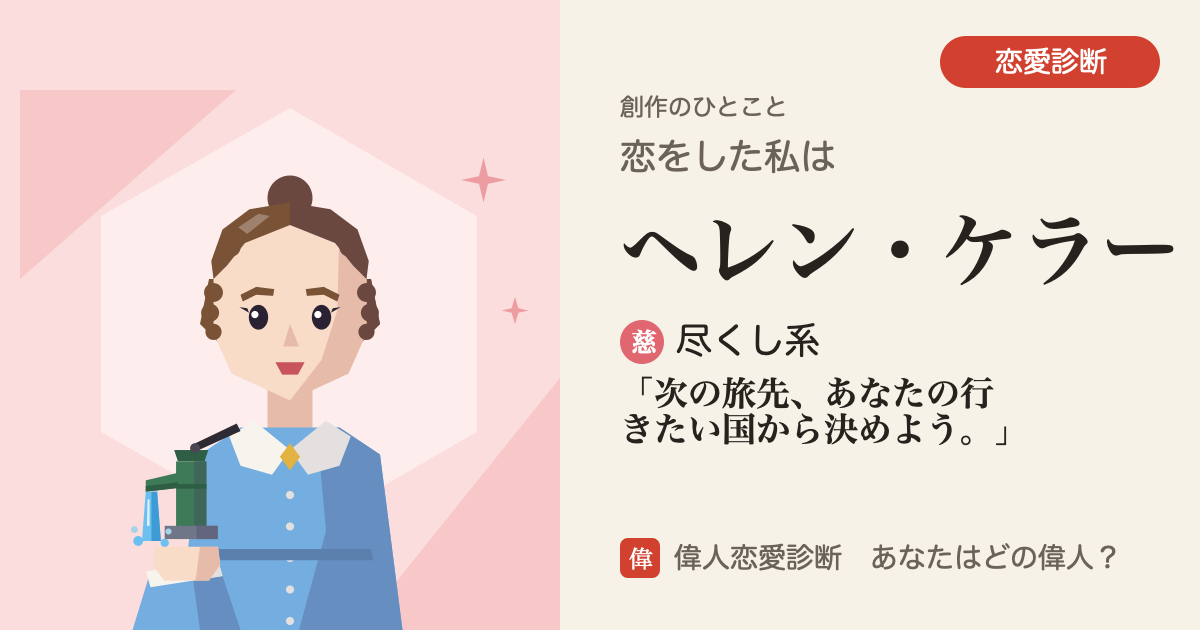
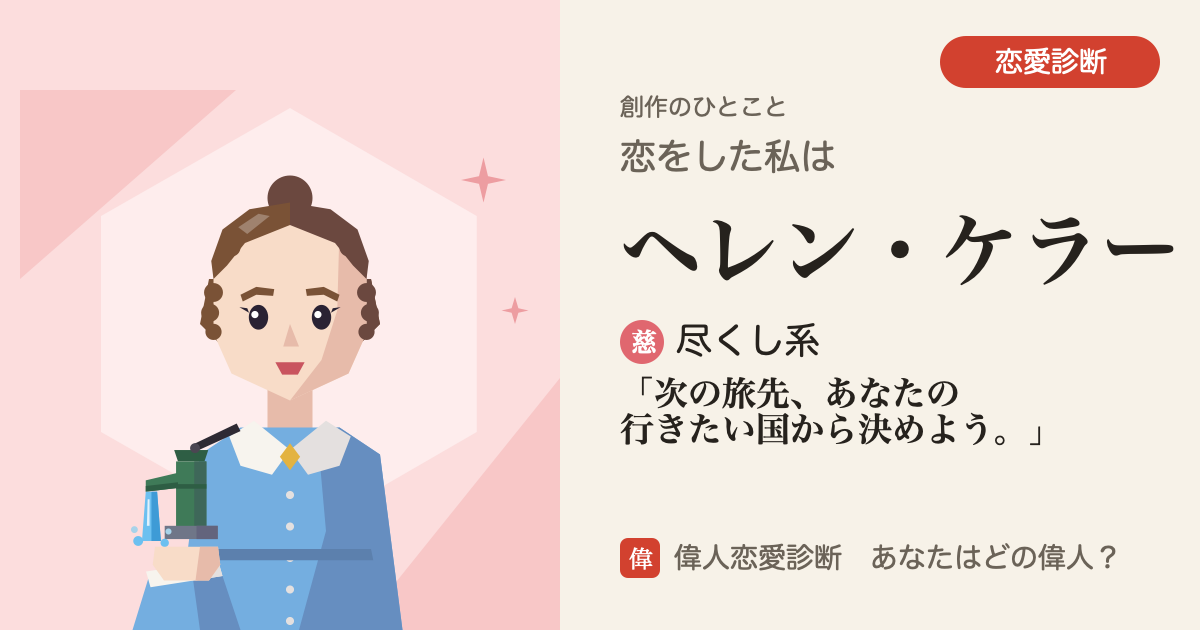
公開 版 0a1c830-202610282124

Changed region(s): [[0.4933, 0.6032, 0.8325, 0.7238]]

diff --git a/app/main.js b/app/main.js
@@ -1,28 +1,28 @@
 // 画面：トップ（#/）→ 質問（#/q/<mode>）→ 結果（#/r/<mode>/<回答>）／ 図鑑（#/zukan）
 // 結果のURLには回答（1〜5の数字の列）が入るので、そのままシェアできる。
 // 設計の根拠：docs/ui-redesign.md（デザイナー）、docs/game-design-review.md の P0（ゲーム開発者）
-import { AXES, Shindan, loadData } from "./shindan.js?v=3ec839d-202610282117";
-import { mountMotion } from "./motion.js?v=3ec839d-202610282117";
-import { mountGuide } from "./guide.js?v=3ec839d-202610282117";
+import { AXES, Shindan, loadData } from "./shindan.js?v=0a1c830-202610282124";
+import { mountMotion } from "./motion.js?v=0a1c830-202610282124";
+import { mountGuide } from "./guide.js?v=0a1c830-202610282124";
 import { SELF_KEY, LEGACY_SELF_KEYS, blankSelfState, readSelfState, initializeSelfState, armSelfClear,
-  writeSelfState, rebaselineLegacySelfState, nextDiagnosisState, nextRestoredState, nextZukanSettledState } from "./self_state.js?v=3ec839d-202610282117";
-import { createInviteToken, validInviteToken, validFriendCode, makeFriendCode, friendAnswersFromCode, makeInviteUrl, makeReplyUrl, parseSocialHash, otherPilotAllowed } from "./social.js?v=3ec839d-202610282117";
-import { orderOtherV1Questions, otherV1ProgressIndex } from "./other_v1.js?v=3ec839d-202610282117";
-import { appendOtherReply, removeOtherReply } from "./other_replies.js?v=3ec839d-202610282117";
-import { prependPersonCard, distinctCardFigures, figureSetProgress, cleanPersonCardLabel, personCardDisplayName, personCardNeedsLabel } from "./people.js?v=3ec839d-202610282117";
-import { isSharedResultEntry, sharedResultViewPath, withoutSharedResultParam } from "./shared_entry.js?v=3ec839d-202610282117";
-import { rememberSharedReturn, readSharedReturn } from "./shared_return.js?v=3ec839d-202610282117";
-import { storedResultMatches, storedList } from "./stored_result.js?v=3ec839d-202610282117";
-import { clearPrefixedStorage } from "./storage_clear.js?v=3ec839d-202610282117";
-import { readClearEpoch, compareClearEpoch, ensureClearEpoch, advanceClearEpoch } from "./storage_epoch.js?v=3ec839d-202610282117";
-import { applyZukanBatch } from "./zukan_batch.js?v=3ec839d-202610282117";
+  writeSelfState, rebaselineLegacySelfState, nextDiagnosisState, nextRestoredState, nextZukanSettledState } from "./self_state.js?v=0a1c830-202610282124";
+import { createInviteToken, validInviteToken, validFriendCode, makeFriendCode, friendAnswersFromCode, makeInviteUrl, makeReplyUrl, parseSocialHash, otherPilotAllowed } from "./social.js?v=0a1c830-202610282124";
+import { orderOtherV1Questions, otherV1ProgressIndex } from "./other_v1.js?v=0a1c830-202610282124";
+import { appendOtherReply, removeOtherReply } from "./other_replies.js?v=0a1c830-202610282124";
+import { prependPersonCard, distinctCardFigures, figureSetProgress, cleanPersonCardLabel, personCardDisplayName, personCardNeedsLabel } from "./people.js?v=0a1c830-202610282124";
+import { isSharedResultEntry, sharedResultViewPath, withoutSharedResultParam } from "./shared_entry.js?v=0a1c830-202610282124";
+import { rememberSharedReturn, readSharedReturn } from "./shared_return.js?v=0a1c830-202610282124";
+import { storedResultMatches, storedList } from "./stored_result.js?v=0a1c830-202610282124";
+import { clearPrefixedStorage } from "./storage_clear.js?v=0a1c830-202610282124";
+import { readClearEpoch, compareClearEpoch, ensureClearEpoch, advanceClearEpoch } from "./storage_epoch.js?v=0a1c830-202610282124";
+import { applyZukanBatch } from "./zukan_batch.js?v=0a1c830-202610282124";
 
 const $ = (s, el = document) => el.querySelector(s);
 const app = $("#app"), overlay = $("#overlay"), sheet = $("#sheet");
 const getJSON = (u) => fetch(u).then((r) => r.json());
 let data, meta;
 try {
-  [data, meta] = await Promise.all([loadData(), getJSON("meta.json?v=3ec839d-202610282117")]);
+  [data, meta] = await Promise.all([loadData(), getJSON("meta.json?v=0a1c830-202610282124")]);
 } catch (e) {
   app.insertAdjacentHTML("beforeend", `<p class="note" style="margin-top:20px">読みこみに失敗しました。通信状況を確かめて、ページを再読みこみしてください。</p>`);
   throw e;

diff --git a/app/index.html b/app/index.html
@@ -15,7 +15,7 @@
   <link rel="icon" href="icons/favicon.svg" type="image/svg+xml">
   <link rel="icon" href="icons/favicon-32.png" sizes="32x32" type="image/png">
   <link rel="apple-touch-icon" href="icons/apple-touch-icon.png">
-  <link rel="stylesheet" href="style.css?v=3ec839d-202610282117">
+  <link rel="stylesheet" href="style.css?v=0a1c830-202610282124">
   <link rel="stylesheet" href="motion.css?v=5">
   <link rel="stylesheet" href="guide.css?v=6">
 </head>
@@ -35,6 +35,6 @@
   </main>
   <div id="overlay" hidden></div>
   <div id="sheet" hidden></div>
-  <script type="module" src="main.js?v=3ec839d-202610282117"></script>
+  <script type="module" src="main.js?v=0a1c830-202610282124"></script>
 </body>
 </html>

diff --git a/app/shindan.js b/app/shindan.js
@@ -8,7 +8,7 @@ const dot = (a, b) => a.reduce((s, x, i) => s + x * b[i], 0);
 
 export async function loadData(base = "../data/") {
   const names = ["axes", "types", "rules", "plans", "questions", "questions_love", "questions_friend", "texts"];
-  const jsons = await Promise.all(names.map((n) => fetch(`${base}${n}.json?v=3ec839d-202610282117`).then((r) => r.json())));
+  const jsons = await Promise.all(names.map((n) => fetch(`${base}${n}.json?v=0a1c830-202610282124`).then((r) => r.json())));
   return Object.fromEntries(names.map((n, i) => [n, jsons[i]]));
 }
 

diff --git a/app/other_replies.js b/app/other_replies.js
@@ -1,5 +1,5 @@
 // 他己回答は別人の証明ができない。端末内の返信記録としてだけ扱う。
-import { validInviteToken, validFriendCode } from "./social.js?v=3ec839d-202610282117";
+import { validInviteToken, validFriendCode } from "./social.js?v=0a1c830-202610282124";
 
 export function appendOtherReply(records, entry, maxRecords = 50) {
   if (!Array.isArray(records) || !validInviteToken(entry?.token) || !validFriendCode(entry?.code))

diff --git a/app/people.js b/app/people.js
@@ -1,5 +1,5 @@
 // 回答コードは人物の識別子ではない。同じ回答の別人もカード化できる。
-import { validInviteToken } from "./social.js?v=3ec839d-202610282117";
+import { validInviteToken } from "./social.js?v=0a1c830-202610282124";
 
 export function prependPersonCard(cards, card, maxCards = 50, isUsable = () => true) {
   if (!Array.isArray(cards) || cards.filter(isUsable).length >= maxCards) return null;
